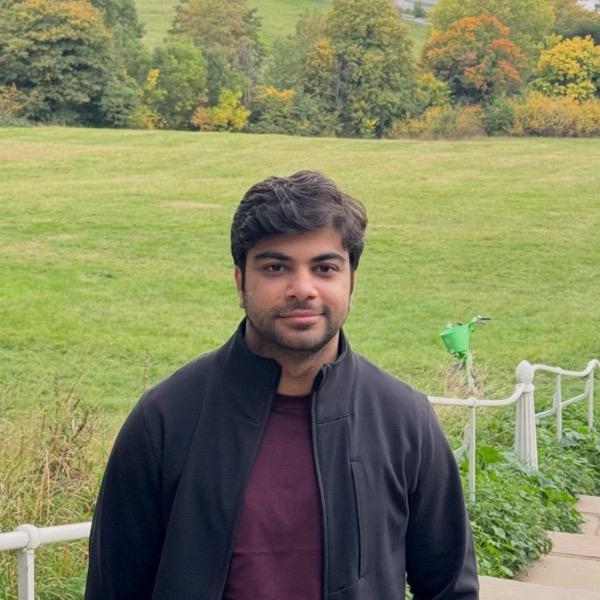
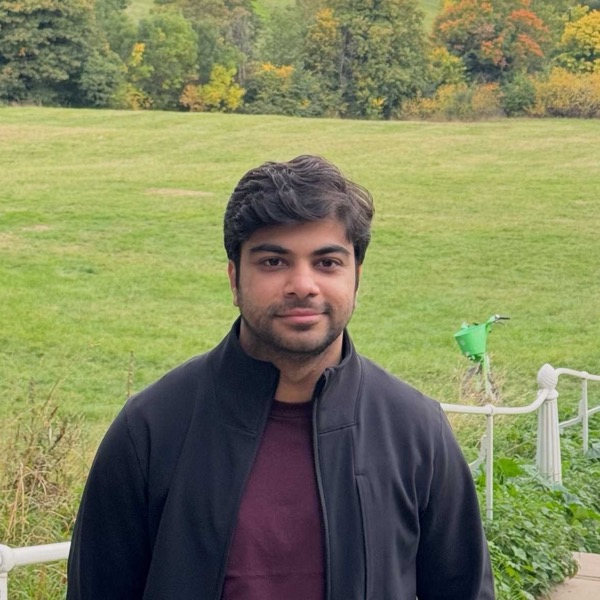
Update resume, larger scale and headings, tighter photo, unlink ServiceNow

diff --git a/index.html b/index.html
@@ -33,7 +33,7 @@
 
         body {
             font-family: "Source Sans Pro", Helvetica, sans-serif;
-            font-size: 12.2pt;
+            font-size: 13pt;
             font-weight: 400;
             line-height: 1.65em;
             color: var(--text);
@@ -144,13 +144,13 @@
             margin-left: var(--sidebar-w);
             width: calc(100% - var(--sidebar-w));
             max-width: 54em;
-            padding: 8em 4em 4em;
+            padding: 4em 4em 4em;
         }
 
         #main > section {
             border-top: solid 2px var(--rule);
-            margin: 4em 0 0;
-            padding: 4em 0 0;
+            margin: 3em 0 0;
+            padding: 3em 0 0;
         }
 
         #main > section:first-child {
@@ -160,8 +160,12 @@
         }
 
         #main > section > h1 {
-            font-size: 1.45em;
-            margin-bottom: 0.85em;
+            font-size: 1.85em;
+            margin-bottom: 0.7em;
+        }
+
+        #about > h1 {
+            font-size: 1.95em;
         }
 
         #main p {
@@ -279,7 +283,7 @@
             }
 
             #main {
-                padding: 6em 3em 3em;
+                padding: 3.5em 3em 3em;
             }
         }
 
@@ -336,7 +340,7 @@
     <header id="sidebar">
         <div class="inner">
             <a href="#" class="image avatar">
-                <img src="img/profile-park.jpg" alt="Rishabh Maheshwary">
+                <img src="img/profile-park.jpg?v=2" alt="Rishabh Maheshwary">
             </a>
             <div class="identity">
                 <p><strong>Rishabh Maheshwary</strong></p>
@@ -349,7 +353,7 @@
                 <a href="https://github.com/RishabhMaheshwary" title="GitHub"><i class="fab fa-github"></i></a>
                 <a href="https://linkedin.com/in/rishabh-maheshwary/" title="LinkedIn"><i class="fab fa-linkedin"></i></a>
                 <a href="https://scholar.google.com/citations?user=cwGB7lwAAAAJ&hl=en&oi=sra" title="Google Scholar"><i class="ai ai-google-scholar"></i></a>
-                <a href="docs/Resume.pdf" title="CV"><i class="ai ai-cv"></i></a>
+                <a href="docs/Resume.pdf?v=4" title="CV"><i class="ai ai-cv"></i></a>
             </div>
         </div>
     </header>
@@ -357,10 +361,11 @@
     <div id="main">
         <section id="about">
             <h1>About</h1>
-            <p>I am Rishabh, currently part of the research group at <a href="https://cartesia.ai/">Cartesia</a>, working on post-training. <p>Previously, I was a Research Scientist at <a href="https://www.servicenow.com/research/author/rishabh-maheshwary.html">ServiceNow</a>, where I worked on post-training through data curation, fine-tuning, reinforcement learning, and model evaluations. Some of my work includes the <a href="https://arxiv.org/abs/2510.01141">Apriel-15B</a> <a href="https://huggingface.co/collections/ServiceNow-AI/apriel-15-15b-thinker">model series</a>, research on <a href="https://arxiv.org/abs/2406.16783">multilingual</a> <a href="https://arxiv.org/abs/2410.15522">alignment</a> and <a href="https://openreview.net/forum?id=k3gCieTXeY">benchmarking</a>, <a href="https://arxiv.org/abs/2403.07230">curriculum learning for preference modeling</a>, and improving <a href="https://arxiv.org/abs/2505.16293">agentic capabilities</a>.</p>
+            <p>I am Rishabh, currently part of the research group at <a href="https://cartesia.ai/">Cartesia</a>, working on post-training.</p>
+            <p>Previously, I was a Research Scientist at ServiceNow, where I worked on post-training through data curation, fine-tuning, reinforcement learning, and model evaluations. Some of my work includes the <a href="https://arxiv.org/abs/2510.01141">Apriel-15B</a> <a href="https://huggingface.co/collections/ServiceNow-AI/apriel-15-15b-thinker">model series</a>, research on <a href="https://arxiv.org/abs/2406.16783">multilingual</a> <a href="https://arxiv.org/abs/2410.15522">alignment</a> and <a href="https://openreview.net/forum?id=k3gCieTXeY">benchmarking</a>, <a href="https://arxiv.org/abs/2403.07230">curriculum learning for preference modeling</a>, and improving <a href="https://arxiv.org/abs/2505.16293">agentic capabilities</a>.</p>
             <p>Before that, I was an <a href="https://ai.facebook.com/join-us/residency-program/">AI Resident</a> at <a href="https://ai.facebook.com/research/">Meta AI (FAIR)</a>, working on text detection and <a href="https://openaccess.thecvf.com/content/CVPR2023/papers/Dancette_Improving_Selective_Visual_Question_Answering_by_Learning_From_Your_Peers_CVPR_2023_paper.pdf">multimodal vision-and-language understanding</a>.</p>
             <p>Prior to that, I completed my Master's at <a href="https://blogs.iiit.ac.in/monthly_news/21398/">IIIT Hyderabad</a>, focusing on adversarial robustness of language models.</p>
-            <p class="about-links"><a href="https://scholar.google.com/citations?user=cwGB7lwAAAAJ&hl=en&oi=sra">Google Scholar</a> / <a href="docs/Resume.pdf">CV</a> / <a href="https://docs.google.com/document/d/1_yCMO4WAIThGANHYUUsTe85pzOMmYafa4Hwo-9wE9_E/edit?usp=sharing">Cover letter</a></p>
+            <p class="about-links"><a href="https://scholar.google.com/citations?user=cwGB7lwAAAAJ&hl=en&oi=sra">Google Scholar</a> / <a href="docs/Resume.pdf?v=4">CV</a> / <a href="https://docs.google.com/document/d/1_yCMO4WAIThGANHYUUsTe85pzOMmYafa4Hwo-9wE9_E/edit?usp=sharing">Cover letter</a></p>
         </section>
 
         <section id="research">
